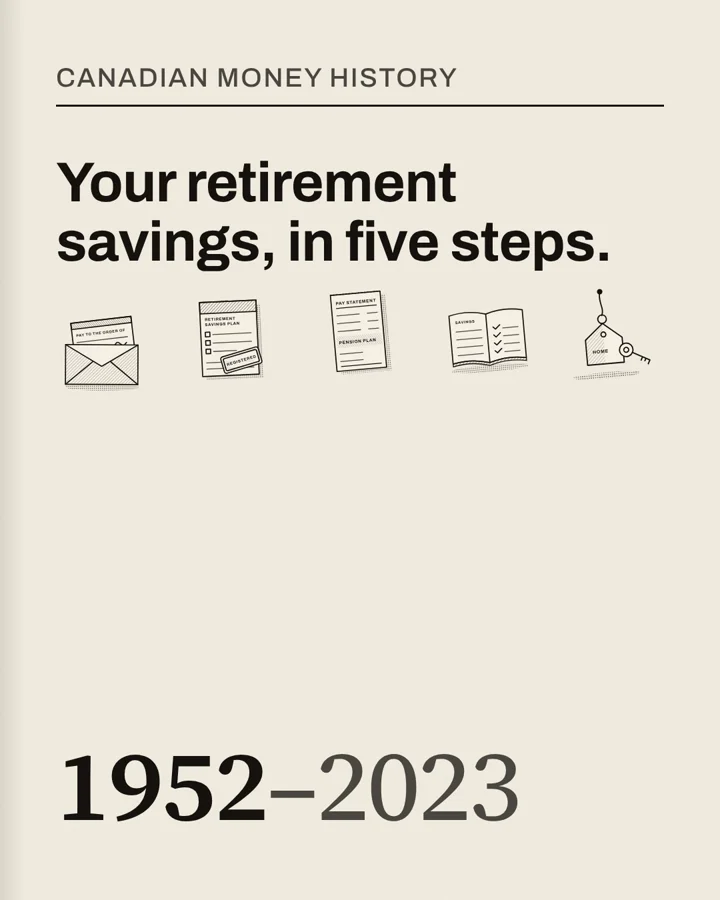
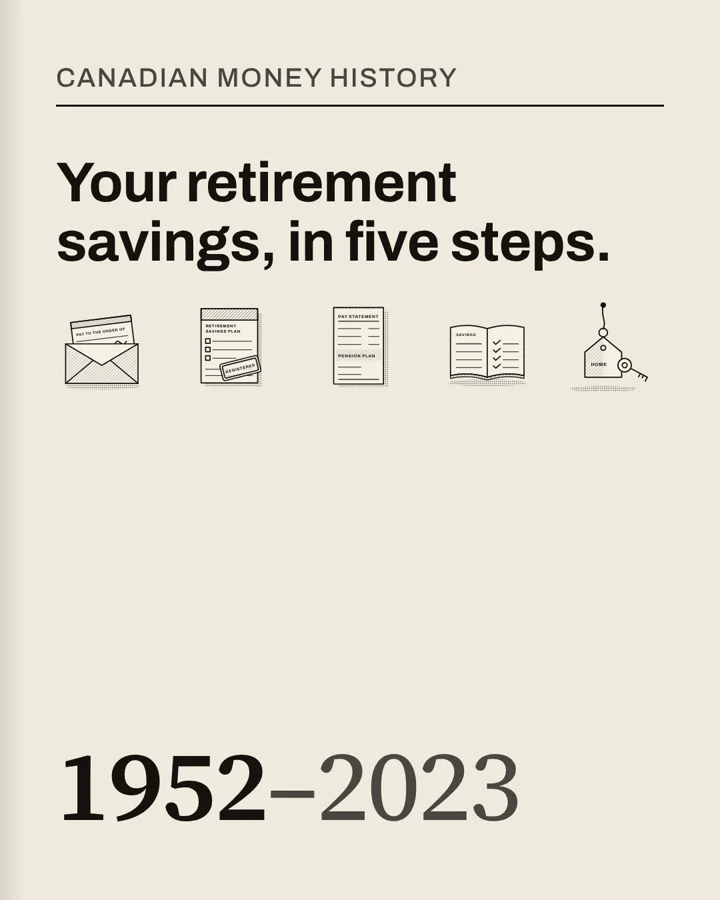
Reel shell: poster is the settled opening card; --posters rewrites posters from rendered videos
Claude-Session: https://claude.ai/code/session_01YFugegkGtdU2TPfnq5yMHt

diff --git a/HANDOFF.md b/HANDOFF.md
@@ -75,3 +75,5 @@ rate-limited submissions charged nothing), align.py now needs two expected words
 line contained "the") and accepts partial words ("posed" for "proposed"); history cuts unchanged. Reel 68.3 s, 19.4 MiB; the mix
 transcribes as the ten lines only. **Web cut:** `--web45` renders the reel at 1080x1350 in the carousel layout (no empty band for
 app buttons) for the site, for both reels; data cards are larger in that layout. Next: site page + case study; refresh ~Dec 1.
+**Posters (2026-11-11):** a reel's poster is now its opening card once settled (drawings complete), not frame 0; `--posters` rewrites
+the posters from videos already rendered. Both reels' posters redone. Site: P4's page, 4:5 reel, slides and case study synced (mo-portfolio-site HANDOFF).
